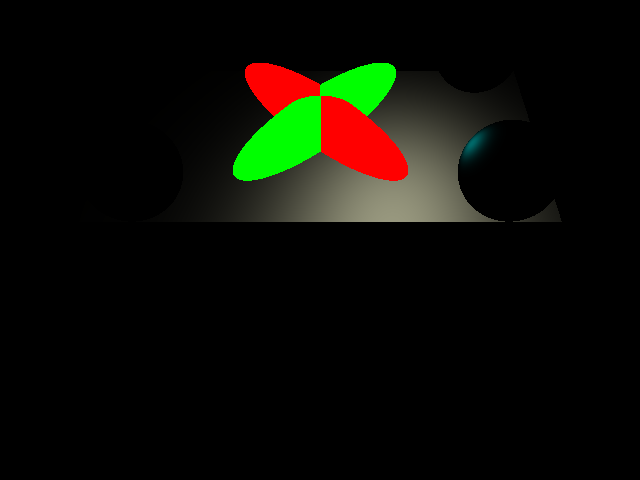
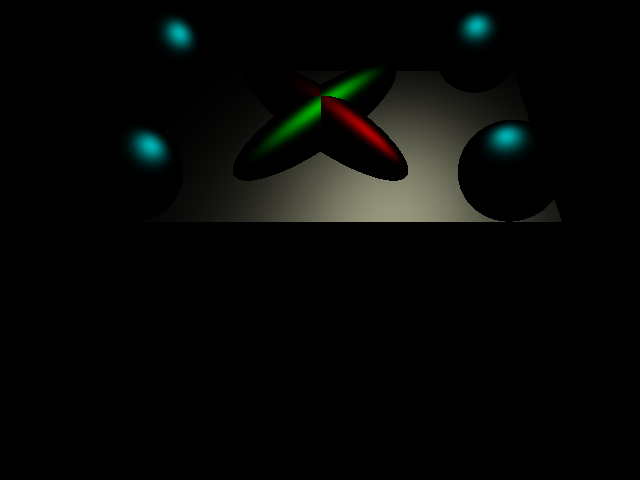
Fixed most of the issues now working on shadows

diff --git a/hw2-windows(1)/hw2-windows/hw2-windows/main.cpp b/hw2-windows(1)/hw2-windows/hw2-windows/main.cpp
@@ -148,12 +148,13 @@ int visibility(ray r, Scene newScene) {
     float blockers = 1.0;
     pair<float, vec3> newpair;
     int i;
-    /*
+    
         for (i = 0; i < newScene.objectz.size(); i++) {
         if (newScene.types[i] == "Sphere") {
             newpair = static_cast<Sphere*>(newScene.objectz[i])->intersection(r);
             
         }
+
         if (newpair.first > 0.0101) {
             return 0;
         }
@@ -161,13 +162,13 @@ int visibility(ray r, Scene newScene) {
             newpair = static_cast<Triangle*>(newScene.objectz[i])->intersection(r);
             
         }
+
         if (newpair.first > 0.0101) {
             return 0;
         }
     }
     
-    */
-  
+    
     
    
     
@@ -274,7 +275,7 @@ vec3 normalChecker(tuple<string, Scene*, vec3> stuff, bool light, vec3 lightdir)
 vec3 pixcolor(tuple<string, Scene*, vec3> stuff, int depth, Scene newScene) {
     vec3 color = vec3(0, 0, 0);
     vec3 intersection = get<2>(stuff);
-   
+    int name = 0;
     vec3 diff = vec3(0,0,0);
     vec3 specular = vec3(0, 0, 0);
     vec3 ambient = vec3(.2, .2, .2);
@@ -283,6 +284,7 @@ vec3 pixcolor(tuple<string, Scene*, vec3> stuff, int depth, Scene newScene) {
     vec3 normal;
     //Adding ambi and emiss
     if (get<0>(stuff) == "Sphere") {
+        name = 1;
         ambient = static_cast<Sphere*>(get<1>(stuff))->ambi;
         emiss = static_cast<Sphere*>(get<1>(stuff))->emiss;
        // color += static_cast<Sphere*>(get<1>(stuff))->ambi + static_cast<Sphere*>(get<1>(stuff))->emiss;
@@ -293,11 +295,12 @@ vec3 pixcolor(tuple<string, Scene*, vec3> stuff, int depth, Scene newScene) {
        
         
              float offset = 0.01;
-        normal = normalize(intersection - sphereCenter);
+             
+        normal = normalize(vec3(static_cast<Sphere*>(get<1>(stuff))->invTrans * vec4(intersection, 1)) - sphereCenter);
 
        // intersection += (normal * offset);
         mat3 matrix = mat3(transpose(static_cast<Sphere*>(get<1>(stuff))->invTrans));
-        normal = matrix * normal;
+        normal = normalize(matrix * normal);
         
         //normal = normalize(intersection - sphereCenter);
        
@@ -443,7 +446,9 @@ int main(int argc, char* argv[]) {
 
             pixel_color = vec3(0, 0, 0);
             // int* pixel_color = FindIntersection(r, newScene.objectz, newScene);
-
+            if (i == 106 && j == 501) {
+                pixel_color = vec3(0, 0, 0);
+            }
              //check intersection with the ray and the scene
             tuple<string, Scene*, vec3> a = intersection(r, newScene); //eye ray check
             if (get<0>(a) != "") {

diff --git a/hw2-windows(1)/hw2-windows/hw2-windows/Scene.h b/hw2-windows(1)/hw2-windows/hw2-windows/Scene.h
@@ -132,7 +132,7 @@ public:
         //vec3 rayorigin = vec3(inverse(trans) * vec4(r.orig, 1));
         vec3 raydirection = glm::normalize(vec3(invTrans * vec4(r.dir, 0)));
         rayorigin = vec3(invTrans * vec4(r.orig, 1));
-
+       // rayorigin = r.orig;
         //compute the hit
         vec3 newxyz = xyz;
         float a = dot(raydirection, raydirection);
